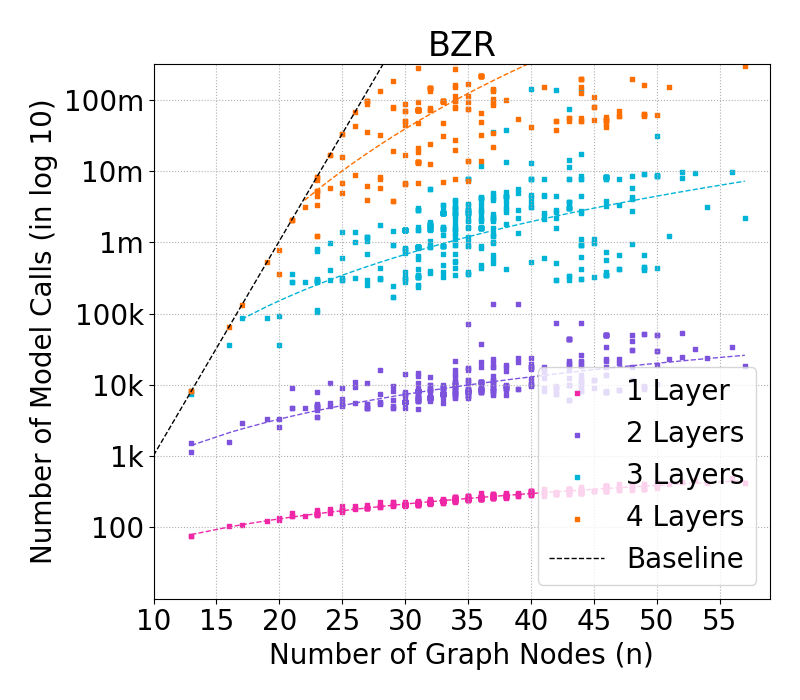
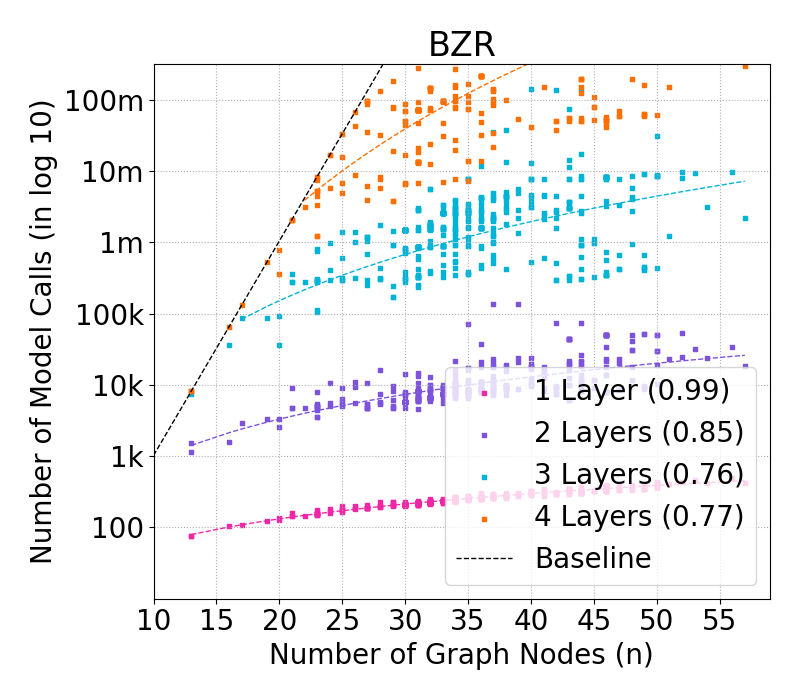
added R2 of logarithmic curve to complexity plot

diff --git a/graph_shapiq_experiments/complexity_plot.py b/graph_shapiq_experiments/complexity_plot.py
@@ -26,7 +26,9 @@ def plot_trend_curve(x_values, values, color, type="log"):
     if type == "log":
         popt, pcov = curve_fit(logarithmic_function, x_val, y_val)
         y_fit = logarithmic_function(x_val, *popt)
-        #
+
+        # R-squared
+
         idx_to_plot = y_fit < x_val * np.log10(2)
         plot_y = y_fit[idx_to_plot]
         plot_x = x_val[idx_to_plot]
@@ -42,14 +44,28 @@ def plot_trend_curve(x_values, values, color, type="log"):
     if type == "lin":
         coefficients = np.polyfit(x_val, y_val, 1)
         polynomial_func = np.poly1d(coefficients)
+        y_fit = polynomial_func(x_val)
         plt.plot(
             x_val,
-            polynomial_func(x_val),
+            y_fit,
             color=color,
             linestyle=":",
             linewidth=1,
             label="",
         )
+
+    def calculate_r_squared(y_val, y_fit):
+        ss_res = np.sum(residuals**2)
+        ss_tot = np.sum((y_val - np.mean(y_val)) ** 2)
+        r_squared = 1 - (ss_res / ss_tot)
+        return r_squared
+
+        # Calculate metrics
+
+    residuals = y_val - y_fit
+    r_squared = calculate_r_squared(y_val, y_fit)
+
+    return r_squared
 
 
 def plot_naive_budget(node_range):
@@ -90,7 +106,9 @@ def plot_complexity_by_layers(plot_dataset, dataset, scatter=False):
 
         if scatter:
             try:
-                plot_trend_curve(plot_medians.index, plot_medians, plot_color, type="log")
+                r_squared = plot_trend_curve(
+                    plot_medians.index, plot_medians, plot_color, type="log"
+                )
             except:
                 print("No trend curve fitted")
             # Plot the median as line plot
@@ -100,11 +118,13 @@ def plot_complexity_by_layers(plot_dataset, dataset, scatter=False):
                 color=plot_color,
                 s=5,
                 marker="s",
-                label=plot_label,
+                label=plot_label+ ' ('+str(np.round(r_squared,2))+")",
             )
         else:
             try:
-                plot_trend_curve(plot_medians.index, plot_medians, plot_color, type="log")
+                r_squared = plot_trend_curve(
+                    plot_medians.index, plot_medians, plot_color, type="log"
+                )
             except:
                 print("No trend curve fitted")
             # Plot the median as line plot
@@ -113,7 +133,7 @@ def plot_complexity_by_layers(plot_dataset, dataset, scatter=False):
                 plot_medians,
                 color=plot_color,
                 linestyle="-",
-                label=plot_label,
+                label=plot_label+ ' ('+str(np.round(r_squared,2))+")",
             )
             # Plot the band around median using Q1 and Q3
             ax.fill_between(
@@ -123,6 +143,7 @@ def plot_complexity_by_layers(plot_dataset, dataset, scatter=False):
                 alpha=0.2,
                 color=plot_color,
             )
+
 
     # Axis customization
     min_x = plot_dataset["n_players"].min() - 2
@@ -146,16 +167,31 @@ def plot_complexity_by_layers(plot_dataset, dataset, scatter=False):
     plt.grid(True, linestyle=":")
     plt.tight_layout()
     if scatter:
-        plt.savefig(os.path.join(save_path_plots, "complexity_by_layers_" + dataset + ".png"))
+        plt.savefig(
+            os.path.join(save_path_plots, "complexity_by_layers_" + dataset + ".png")
+        )
     else:
         plt.savefig(
-            os.path.join(save_path_plots, "complexity_by_layers_" + dataset + "_median_q1_q3.png")
+            os.path.join(
+                save_path_plots, "complexity_by_layers_" + dataset + "_median_q1_q3.png"
+            )
         )
     plt.show()
 
 
 def plot_complexity_by_statistic(
-    save_id, plot_dataset, statistic, title, clabel, min_x, max_x, min_v, max_v, min_y, max_y, cmap
+    save_id,
+    plot_dataset,
+    statistic,
+    title,
+    clabel,
+    min_x,
+    max_x,
+    min_v,
+    max_v,
+    min_y,
+    max_y,
+    cmap,
 ):
     plt.rcParams.update(params)
 
@@ -201,17 +237,17 @@ if __name__ == "__main__":
 
     COLOR_LIST = ["#ef27a6", "#7d53de", "#00b4d8", "#ff6f00", "#ffba08"]
     params = {
-        #"legend.fontsize": "x-large",
+        # "legend.fontsize": "x-large",
         "figure.figsize": (8, 7),
-        #"axes.labelsize": "x-large",
-        #"axes.titlesize": "x-large",
-        #"xtick.labelsize": "x-large",
-        #"ytick.labelsize": "x-large",
-        "font.size": 20
+        # "axes.labelsize": "x-large",
+        # "axes.titlesize": "x-large",
+        # "xtick.labelsize": "x-large",
+        # "ytick.labelsize": "x-large",
+        "font.size": 20,
     }
 
-    #plt.rcParams.update({"font.size": 20})  # increase the font size of the plot
-    #plt.rcParams["figure.figsize"] = (8, 7)  # set figure size
+    # plt.rcParams.update({"font.size": 20})  # increase the font size of the plot
+    # plt.rcParams["figure.figsize"] = (8, 7)  # set figure size
 
     DATASETS = [
         "COX2",
@@ -222,14 +258,16 @@ if __name__ == "__main__":
         "FluorideCarbonyl",
         "Benzene",
         "AlkaneCarbonyl",
-        "WaterQuality"
+        "WaterQuality",
     ]
 
     LAYERS = ["1", "2", "3", "4"]
 
     # Import dataset statistics
     dataset_statistics = {}
-    for file_path in glob.glob(os.path.join(save_directory, "dataset_statistics", "*.csv")):
+    for file_path in glob.glob(
+        os.path.join(save_directory, "dataset_statistics", "*.csv")
+    ):
         dataset_statistic = pd.read_csv(file_path)
         dataset_name = file_path.split("/")[-1][:-4]
         if dataset_name in DATASETS:
@@ -252,7 +290,9 @@ if __name__ == "__main__":
                 )
                 results[file_name] = result
 
-    all_datasets = pd.concat(dataset_statistics.values(), keys=dataset_statistics.keys())
+    all_datasets = pd.concat(
+        dataset_statistics.values(), keys=dataset_statistics.keys()
+    )
 
     # Rename unnamed index column and introduce dataset_name column
     all_datasets["dataset_name"] = all_datasets.index.get_level_values(0)
@@ -260,28 +300,43 @@ if __name__ == "__main__":
     dataset_counts = all_datasets.groupby(["dataset_name"]).count()
     dataset_means = all_datasets.groupby(["dataset_name"]).mean()
     # Round and transform to percentages for better readability
-    dataset_means["avg_num_nodes"] =  np.round(dataset_means["0"],2)
-    dataset_means["avg_graph_density"] = np.round(dataset_means["graph_density"]*100,2)
+    dataset_means["avg_num_nodes"] = np.round(dataset_means["0"], 2)
+    dataset_means["avg_graph_density"] = np.round(
+        dataset_means["graph_density"] * 100, 2
+    )
 
     df = pd.concat(results.values(), keys=results.keys())
     df["log10_budget"] = np.log10(df["budget"].astype(float))
-    df["log10_budget_capped"] = df["log10_budget"].clip(upper=df["n_players"] * np.log10(2))
+    df["log10_budget_capped"] = df["log10_budget"].clip(
+        upper=df["n_players"] * np.log10(2)
+    )
 
     means = df.groupby(["dataset_name", "n_layers", "n_players"])["log10_budget"].mean()
-    q1 = df.groupby(["dataset_name", "n_layers", "n_players"])["log10_budget"].quantile(0.25)
-    q3 = df.groupby(["dataset_name", "n_layers", "n_players"])["log10_budget"].quantile(0.75)
-    medians = df.groupby(["dataset_name", "n_layers", "n_players"])["log10_budget"].median()
+    q1 = df.groupby(["dataset_name", "n_layers", "n_players"])["log10_budget"].quantile(
+        0.25
+    )
+    q3 = df.groupby(["dataset_name", "n_layers", "n_players"])["log10_budget"].quantile(
+        0.75
+    )
+    medians = df.groupby(["dataset_name", "n_layers", "n_players"])[
+        "log10_budget"
+    ].median()
     stds = df.groupby(["dataset_name", "n_layers", "n_players"])["log10_budget"].std()
 
-
     # Set global display format to suppress scientific notation
-    pd.options.display.float_format = '{:.0e}'.format
+    pd.options.display.float_format = "{:.0e}".format
 
     # We compute budget ratios in log-scale for numerical stability and report median of those values
-    df["budget_ratio_perc"] = np.exp((np.log(df["budget"].astype(float)) - df["n_players"]*np.log(2)))*100
-    budget_ratio_perc_median = np.round(df.groupby(["dataset_name", "n_layers"])["budget_ratio_perc"].median(),4)
+    df["budget_ratio_perc"] = (
+        np.exp((np.log(df["budget"].astype(float)) - df["n_players"] * np.log(2))) * 100
+    )
+    budget_ratio_perc_median = np.round(
+        df.groupby(["dataset_name", "n_layers"])["budget_ratio_perc"].median(), 4
+    )
     # Compute the multiplier reported in Table 1.
-    budget_speedup_multiplier = np.round(100/df.groupby(["dataset_name", "n_layers"])["budget_ratio_perc"].median(),0)
+    budget_speedup_multiplier = np.round(
+        100 / df.groupby(["dataset_name", "n_layers"])["budget_ratio_perc"].median(), 0
+    )
 
     for dataset in df["dataset_name"].unique():
         if dataset != "WaterQuality":
@@ -294,19 +349,19 @@ if __name__ == "__main__":
     # Graph Density Plot
     dataset_name = "Mutagenicity"
     n_layers = "2"
+    plot_dataet = df.copy()
     plot_dataset = df[df["n_layers"] == n_layers]
     plot_dataset = plot_dataset[plot_dataset["dataset_name"] == dataset_name]
-    plot_dataset["graph_density"] *= 100
-    statistic = "graph_density"
     save_id = "complexity_by_graph_density_" + dataset_name + "_" + n_layers
     min_x = max(plot_dataset["n_players"].min(), 5)
     max_x = min(plot_dataset["n_players"].max(), 65)
-    min_v = plot_dataset[statistic].quantile(0.1)
-    max_v = plot_dataset[statistic].quantile(0.9)
+    min_v = 0.05
+    max_v = 0.55
     min_y = 1.5
     max_y = 6.5
-    clabel = "Graph Density (%)"
-    title = "Mutagenicity (2-Layer GNN)"#"Exact Shapley Explanations on Mutagenicity (2-Layer GNN)"
+    statistic = "graph_density"
+    clabel = "Graph Density"
+    title = "Mutagenicity (2-Layer GNN)"  # "Exact Shapley Explanations on Mutagenicity (2-Layer GNN)"
     plot_complexity_by_statistic(
         save_id,
         plot_dataset,
@@ -322,22 +377,20 @@ if __name__ == "__main__":
         cmap="plasma",
     )
 
-
-    # Bound Plot
+    # Graph Density Plot
     dataset_name = "Mutagenicity"
     n_layers = "2"
+    plot_dataet = df.copy()
     plot_dataset = df[df["n_layers"] == n_layers]
     plot_dataset = plot_dataset[plot_dataset["dataset_name"] == dataset_name]
-    plot_dataset["bound"] = np.exp(plot_dataset["max_node_degree"]**plot_dataset["n_layers"].astype("int"))/plot_dataset["n_players"]
-
-    save_id = "complexity_by_bound_" + dataset_name + "_" + n_layers
-    statistic = "bound"
+    save_id = "complexity_by_max_degree_" + dataset_name + "_" + n_layers
     min_x = max(plot_dataset["n_players"].min(), 5)
     max_x = min(plot_dataset["n_players"].max(), 65)
-    min_v = plot_dataset[statistic].quantile(0.05)
-    max_v = plot_dataset[statistic].quantile(0.95)
+    min_v = 10
+    max_v = 65
     min_y = 1.5
     max_y = 6.5
+    statistic = "max_node_degree"
     clabel = "Maximum Node Degree"
     title = "Exact Shapley Explanations on Mutagenicity (2-Layer GNN)"
     plot_complexity_by_statistic(
